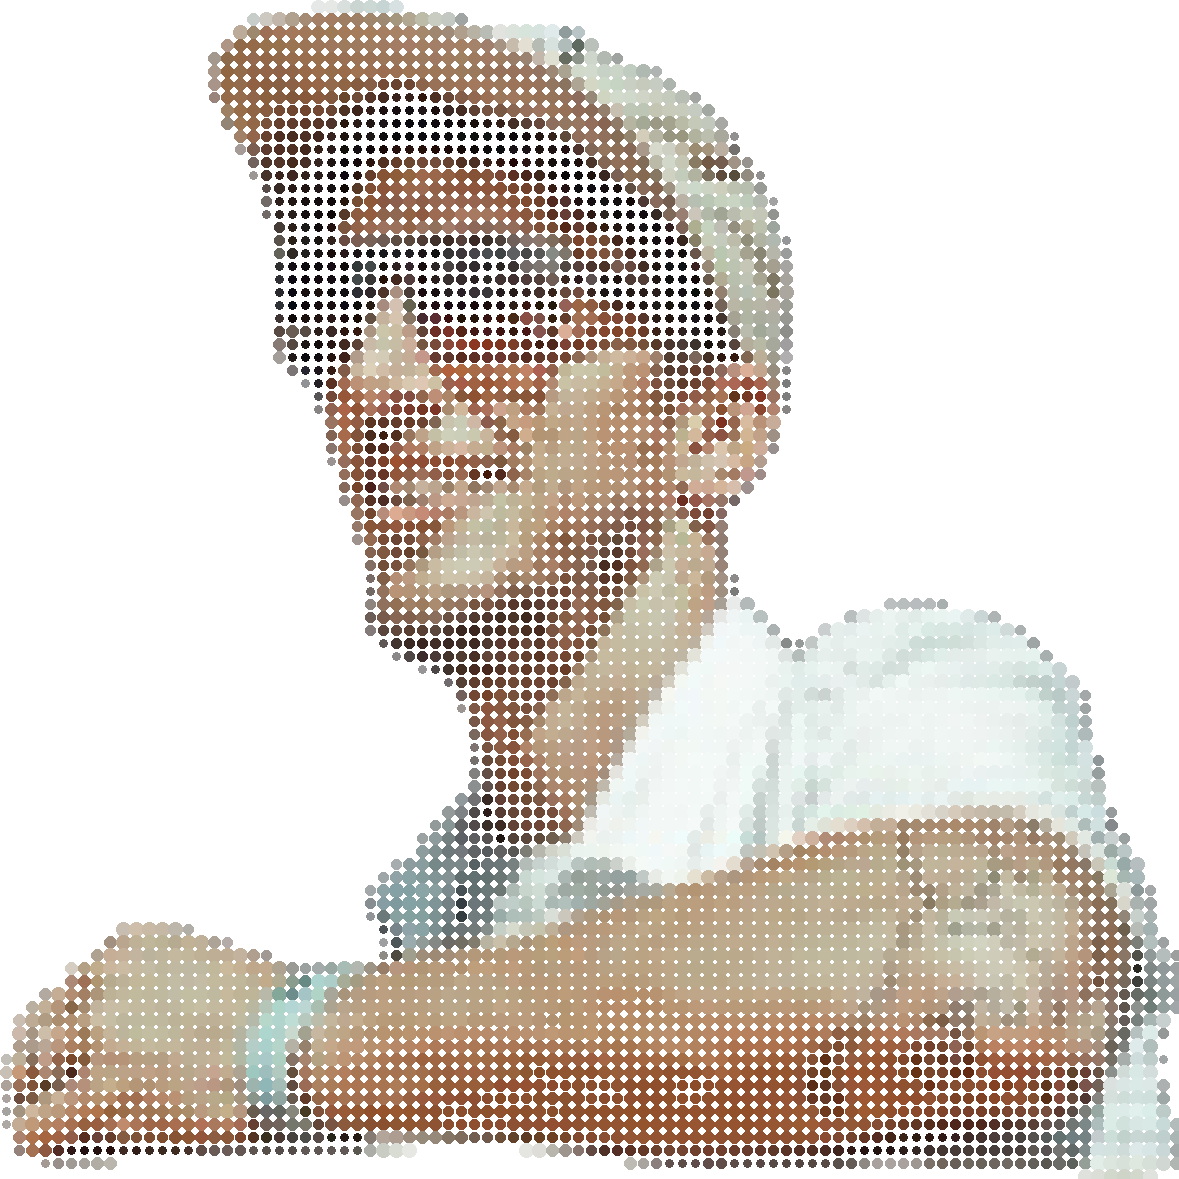
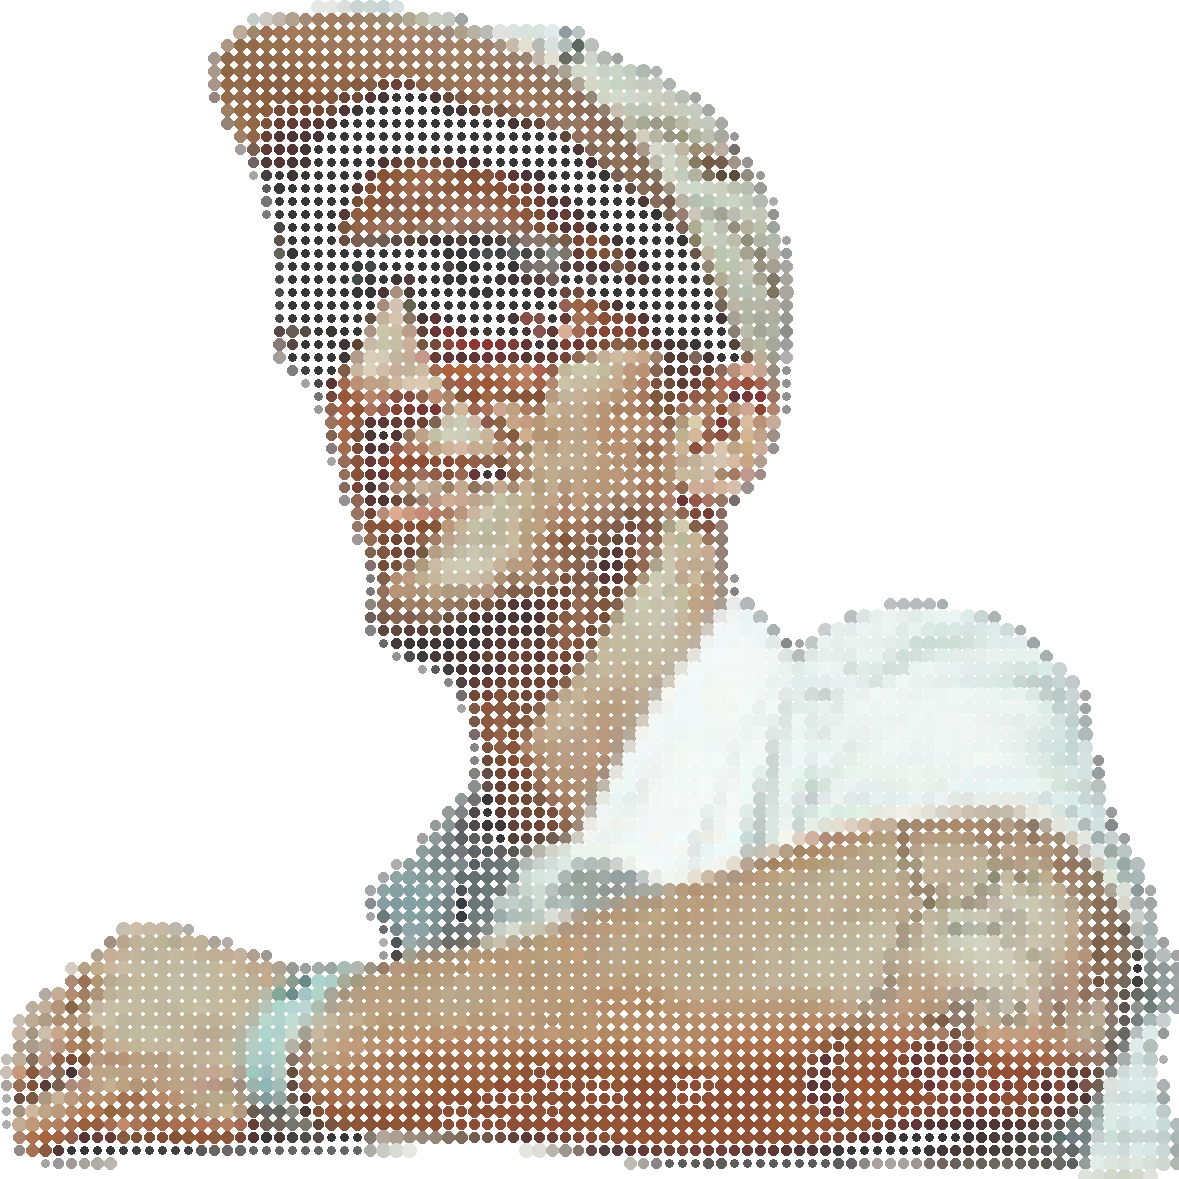
DMG: composed iso device scene with drop shadows

diff --git a/index.html b/index.html
@@ -433,6 +433,21 @@ details.more p{color:var(--ink-2);font-size:15px;margin:0;max-width:46ch}
 .fj svg{display:block;width:100%;height:auto}
 .fj .note{color:var(--ink-2);font-size:14px;line-height:1.55;padding:16px 18px}
 .fj .note b{color:var(--ink);font-weight:600}
+/* DMG composed device scene (iso tilt + drop shadows, overlapping) */
+.dmgscene{margin:10px 0 14px;perspective:2000px}
+.dmgscene .dev{border:1px solid var(--line);border-radius:11px;overflow:hidden;background:#0c0c0c;box-shadow:0 46px 100px -34px rgba(0,0,0,.85),0 16px 36px -16px rgba(0,0,0,.55)}
+.dmgscene .top{display:flex;align-items:center;gap:7px;padding:9px 12px;background:#151515;border-bottom:1px solid var(--line)}
+.dmgscene .top .dot{width:9px;height:9px;border-radius:50%;background:#2f2f2f;flex:0 0 auto}
+.dmgscene .top .dot.r{background:#ff5f57}.dmgscene .top .dot.y{background:#febc2e}.dmgscene .top .dot.g{background:#28c840}
+.dmgscene .top .u{flex:1;min-width:0;margin-left:8px;font-family:var(--mono);font-size:10px;color:var(--muted-2);background:#0b0b0b;border:1px solid var(--line);border-radius:5px;padding:4px 10px;overflow:hidden;white-space:nowrap;text-overflow:ellipsis}
+.dmgscene .dev img{display:block;width:100%;height:auto;background:#0f0f0f}
+.dmgscene .lead{width:82%;margin:0 auto;transform:rotateX(2.5deg);transform-origin:center bottom;position:relative;z-index:3}
+.dmgscene .pair{display:grid;grid-template-columns:1fr 1fr;gap:18px;margin:-32px 0 0;position:relative;z-index:2}
+.dmgscene .pair .dev:nth-child(1){transform:rotate(-1.2deg)}
+.dmgscene .pair .dev:nth-child(2){transform:rotate(1.4deg) translateY(16px)}
+.dmgscene .wide{margin-top:22px;position:relative;z-index:1}
+.dmgscene .scenecap{font-family:var(--mono);font-size:11px;color:var(--muted);margin-top:16px;letter-spacing:.02em}
+@media(max-width:640px){.dmgscene .lead{width:100%;transform:none}.dmgscene .pair{grid-template-columns:1fr;gap:16px;margin-top:16px}.dmgscene .pair .dev{transform:none!important}}
 
 /* special projects tag + throughline */
 .sptag{display:inline-block;font-family:var(--mono);font-size:10px;letter-spacing:.14em;text-transform:uppercase;color:var(--accent);border:1px solid rgba(200,255,61,.34);border-radius:999px;padding:3px 11px;margin-top:12px}
@@ -1125,18 +1140,17 @@ footer .sig{font-family:var(--mono);font-size:11px;color:var(--muted-2)}
         <div class="ph" id="dmg"><div><h3>DMG</h3><div class="role">Sr. Product Designer on a facilities-maintenance SaaS platform: work orders, service lines, licensing, and technician dispatch for commercial properties.</div></div></div>
         <p class="casesub">DMG ran on spreadsheets, email, and phone calls. As Sr. Product Designer I owned it end to end — the research, the flows, and a component system the team could keep extending. Below: the shipped product, and the thinking that got there.</p>
 
-        <figure class="casehero">
-          <img src="https://cdn.prod.website-files.com/67ee008eb3496b99ffa91832/67ff44f7ae87be81ac3a6223_DMGScreenCap-ezgif.com-resize.gif" alt="DMG prototype — work order to dispatch" loading="lazy"/>
-          <figcaption>Interactive prototype — raise a work order, match a licensed provider, dispatch, and track it to done.</figcaption>
-        </figure>
-
-        <div class="scrollwrap">
-          <div class="scrollrow">
-            <figure><img src="https://cdn.prod.website-files.com/67ee008eb3496b99ffa91832/67ff3c22b3e6f0e700693822_ezgif.com-animated-gif-maker.gif" alt="Work-order flow" loading="lazy"/><figcaption>Work-order intake &amp; flow</figcaption></figure>
-            <figure><img src="https://cdn.prod.website-files.com/67ee008eb3496b99ffa91832/67ff3c7c1f2100603b58fd1d_uiux.png" alt="Platform UI" loading="lazy"/><figcaption>Dispatch board · platform UI</figcaption></figure>
-            <figure><img src="https://cdn.prod.website-files.com/67ee008eb3496b99ffa91832/680061620697547c510124ee_ezgif.com-animated-gif-maker%20(1).gif" alt="Service lines" loading="lazy"/><figcaption>Service lines &amp; licensing</figcaption></figure>
+        <div class="dmgscene">
+          <figure class="dev lead">
+            <div class="top"><span class="dot r"></span><span class="dot y"></span><span class="dot g"></span><span class="u">dmg.app · dispatch → work order</span></div>
+            <img src="https://cdn.prod.website-files.com/67ee008eb3496b99ffa91832/67ff44f7ae87be81ac3a6223_DMGScreenCap-ezgif.com-resize.gif" alt="DMG prototype — work order to dispatch" loading="lazy"/>
+          </figure>
+          <div class="pair">
+            <figure class="dev"><div class="top"><span class="dot r"></span><span class="dot y"></span><span class="dot g"></span><span class="u">dmg.app · work orders</span></div><img src="https://cdn.prod.website-files.com/67ee008eb3496b99ffa91832/67ff3c22b3e6f0e700693822_ezgif.com-animated-gif-maker.gif" alt="Work-order flow" loading="lazy"/></figure>
+            <figure class="dev"><div class="top"><span class="dot r"></span><span class="dot y"></span><span class="dot g"></span><span class="u">dmg.app · service lines</span></div><img src="https://cdn.prod.website-files.com/67ee008eb3496b99ffa91832/680061620697547c510124ee_ezgif.com-animated-gif-maker%20(1).gif" alt="Service lines" loading="lazy"/></figure>
           </div>
-          <div class="scrollcap">swipe for more screens</div>
+          <figure class="dev wide"><div class="top"><span class="dot r"></span><span class="dot y"></span><span class="dot g"></span><span class="u">dmg.app · dispatch board</span></div><img src="https://cdn.prod.website-files.com/67ee008eb3496b99ffa91832/67ff3c7c1f2100603b58fd1d_uiux.png" alt="Platform UI · dispatch board" loading="lazy"/></figure>
+          <figcaption class="scenecap">Prototype to shipped platform. Work orders, licensed-provider matching, dispatch, and live status.</figcaption>
         </div>
 
         <div class="uxprocess">
@@ -1620,81 +1634,54 @@ footer .sig{font-family:var(--mono);font-size:11px;color:var(--muted-2)}
   });
 })();
 </script>
-<!-- hero portrait: each halftone dot flips like a coin (independent timing) to reveal the photo when the cursor is near -->
+<!-- hero portrait: halftone by default; scrub the cursor to dissolve dots and reveal the photo, fading back ~1s -->
 <script>
 (function(){
   var cv=document.getElementById('heroCanvas'); if(!cv||!cv.getContext) return;
-  var ctx=cv.getContext('2d'), W=cv.width, H=cv.height, TWOPI=Math.PI*2;
+  var ctx=cv.getContext('2d'), W=cv.width, H=cv.height;
   var backup=document.getElementById('heroBackup'), portrait=cv.parentNode;
   portrait.addEventListener('contextmenu',function(e){ e.preventDefault();
     var toBackup=!cv.hasAttribute('hidden');
     if(backup) backup.hidden=!toBackup;
     if(toBackup) cv.setAttribute('hidden',''); else cv.removeAttribute('hidden');
   });
-
-  var CELL=14, COLS=Math.ceil(W/CELL), ROWS=Math.ceil(H/CELL);
-  var photo=document.createElement('canvas'); photo.width=W; photo.height=H; var pc=photo.getContext('2d');
-  var baked=document.createElement('canvas'); baked.width=W; baked.height=H; var bc=baked.getContext('2d');
-  var grid={}, active={}, R=Math.round(W*0.12), last=null, HOLD=1000, FLOOR=54;
-  var og=new Image();
-  og.onload=function(){
-    pc.drawImage(og,0,0,W,H);
-    var d;
-    try{ d=pc.getImageData(0,0,W,H).data; }
-    catch(err){ var ht=new Image(); ht.onload=function(){ ctx.drawImage(ht,0,0,W,H); }; ht.src='assets/img/hero-halftone.png'; return; } // file:// fallback
-    for(var gy=0;gy<ROWS;gy++){ for(var gx=0;gx<COLS;gx++){
-      var x0=gx*CELL,y0=gy*CELL,r=0,g=0,b=0,a=0,n=0;
-      for(var yy=0;yy<CELL;yy++){ var py=y0+yy; if(py>=H)break; var row=py*W;
-        for(var xx=0;xx<CELL;xx++){ var px=x0+xx; if(px>=W)break; var i=(row+px)*4; r+=d[i];g+=d[i+1];b+=d[i+2];a+=d[i+3];n++; } }
-      if(!n)continue; r/=n;g/=n;b/=n;a/=n; var cov=a/255; if(cov<0.25)continue;
-      r=Math.max(r,FLOOR); g=Math.max(g,FLOOR); b=Math.max(b,FLOOR);   // lift the darkest dots (no "missing tooth")
-      var lum=(0.299*r+0.587*g+0.114*b)/255, rad=(0.42+0.55*Math.pow(lum,0.8))*(CELL*0.5);
-      var c={x:x0,y:y0,cx:x0+CELL/2,cy:y0+CELL/2,col:'rgb('+(r|0)+','+(g|0)+','+(b|0)+')',r:rad,cov:Math.min(1,cov),p:0,target:0,trig:0,t:0,k:gy*COLS+gx};
-      grid[c.k]=c; bc.globalAlpha=c.cov; bc.fillStyle=c.col; bc.beginPath(); bc.arc(c.cx,c.cy,c.r,0,TWOPI); bc.fill();
-    }}
-    bc.globalAlpha=1; ctx.drawImage(baked,0,0); requestAnimationFrame(loop);
-  };
-  og.src='assets/img/hero-og.png';
-
-  function P(e){ var rr=cv.getBoundingClientRect(); return {x:(e.clientX-rr.left)/rr.width*W, y:(e.clientY-rr.top)/rr.height*H}; }
-  function touch(x,y){
-    var now=performance.now(), R2=R*R;
-    var gx0=Math.max(0,((x-R)/CELL)|0), gx1=Math.min(COLS-1,((x+R)/CELL)|0);
-    var gy0=Math.max(0,((y-R)/CELL)|0), gy1=Math.min(ROWS-1,((y+R)/CELL)|0);
-    for(var gy=gy0;gy<=gy1;gy++) for(var gx=gx0;gx<=gx1;gx++){
-      var c=grid[gy*COLS+gx]; if(!c)continue; var dx=c.cx-x, dy=c.cy-y;
-      if(dx*dx+dy*dy>R2)continue;
-      if(c.p<=0 && c.target===0) c.trig=now + Math.random()*240;    // each dot starts its flip at its own moment
-      c.target=1; c.t=now; active[c.k]=c;
-    }
+  function mk(){ var c=document.createElement('canvas'); c.width=W; c.height=H; return c; }
+  var htL=mk(), hx=htL.getContext('2d');
+  var ogL=mk(), ox=ogL.getContext('2d');
+  var msk=mk(), mx=msk.getContext('2d');
+  var ht=new Image(), og=new Image(), n=0;
+  var R=Math.round(W*0.11);
+  var last=null, lastPaint=0, idleDrawn=false;
+  function pos(e){ var r=cv.getBoundingClientRect(); return {x:(e.clientX-r.left)/r.width*W, y:(e.clientY-r.top)/r.height*H}; }
+  function stamp(x,y){
+    var g=mx.createRadialGradient(x,y,0,x,y,R);
+    g.addColorStop(0,'rgba(255,255,255,1)'); g.addColorStop(.55,'rgba(255,255,255,.95)'); g.addColorStop(1,'rgba(255,255,255,0)');
+    mx.fillStyle=g; mx.beginPath(); mx.arc(x,y,R,0,Math.PI*2); mx.fill();
   }
-  function move(p){
-    if(last){ var dx=p.x-last.x,dy=p.y-last.y,dist=Math.hypot(dx,dy),s=Math.max(1,(dist/(R*0.5))|0);
-      for(var i=1;i<=s;i++) touch(last.x+dx*i/s, last.y+dy*i/s); } else touch(p.x,p.y);
-    last=p;
+  function paint(p){
+    if(last){ var d=Math.hypot(p.x-last.x,p.y-last.y), s=Math.max(1,Math.floor(d/(R*0.33)));
+      for(var i=1;i<=s;i++) stamp(last.x+(p.x-last.x)*i/s, last.y+(p.y-last.y)*i/s);
+    } else stamp(p.x,p.y);
+    last=p; lastPaint=performance.now(); idleDrawn=false;
   }
-  cv.addEventListener('mousemove',function(e){ move(P(e)); });
+  cv.addEventListener('mousemove',function(e){ paint(pos(e)); });
   cv.addEventListener('mouseleave',function(){ last=null; });
-  cv.addEventListener('touchmove',function(e){ var t=e.touches[0]; if(t) move(P(t)); },{passive:true});
+  cv.addEventListener('touchmove',function(e){ var t=e.touches[0]; if(t) paint(pos(t)); },{passive:true});
   cv.addEventListener('touchend',function(){ last=null; });
-
-  function loop(){
-    requestAnimationFrame(loop);
-    if(cv.hasAttribute('hidden')) return;
-    var now=performance.now();
-    ctx.clearRect(0,0,W,H); ctx.drawImage(baked,0,0);
-    for(var k in active){ var c=active[k];
-      if(c.target===1 && now-c.t>HOLD) c.target=0;                  // flip back after the hold
-      if(now>=c.trig) c.p += (c.target - c.p) * 0.32;               // fast coin-flip
-      if(c.target===0 && c.p<0.02){ delete active[k]; continue; }
-      ctx.clearRect(c.x,c.y,CELL,CELL);
-      if(c.p<0.5){ var sy=1-c.p*2;                                  // face A: the dot, edge-on
-        if(sy>0.02){ ctx.save(); ctx.translate(c.cx,c.cy); ctx.scale(1,sy); ctx.globalAlpha=c.cov; ctx.fillStyle=c.col; ctx.beginPath(); ctx.arc(0,0,c.r,0,TWOPI); ctx.fill(); ctx.globalAlpha=1; ctx.restore(); }
-      } else { var s2=(c.p-0.5)*2;                                  // face B: the photo tile
-        ctx.save(); ctx.translate(c.cx,c.cy); ctx.scale(1,s2); ctx.drawImage(photo,c.x,c.y,CELL,CELL,-CELL/2,-CELL/2,CELL,CELL); ctx.restore();
-      }
-    }
+  function draw(){
+    mx.globalCompositeOperation='destination-out'; mx.fillStyle='rgba(0,0,0,.05)'; mx.fillRect(0,0,W,H); mx.globalCompositeOperation='source-over';
+    ox.clearRect(0,0,W,H); ox.globalCompositeOperation='source-over'; ox.drawImage(og,0,0,W,H);
+    ox.globalCompositeOperation='destination-in'; ox.drawImage(msk,0,0); ox.globalCompositeOperation='source-over';
+    ctx.clearRect(0,0,W,H); ctx.drawImage(ht,0,0,W,H); ctx.drawImage(ogL,0,0);
   }
+  function loop(){
+    if(performance.now()-lastPaint < 1400){ draw(); idleDrawn=false; }
+    else if(!idleDrawn){ ctx.clearRect(0,0,W,H); ctx.drawImage(ht,0,0,W,H); idleDrawn=true; }
+    requestAnimationFrame(loop);
+  }
+  function ready(){ if(++n<2) return; ctx.drawImage(ht,0,0,W,H); requestAnimationFrame(loop); }
+  ht.onload=ready; og.onload=ready;
+  ht.src='assets/img/hero-halftone.png'; og.src='assets/img/hero-og.png';
 })();
 </script>
 </body>
